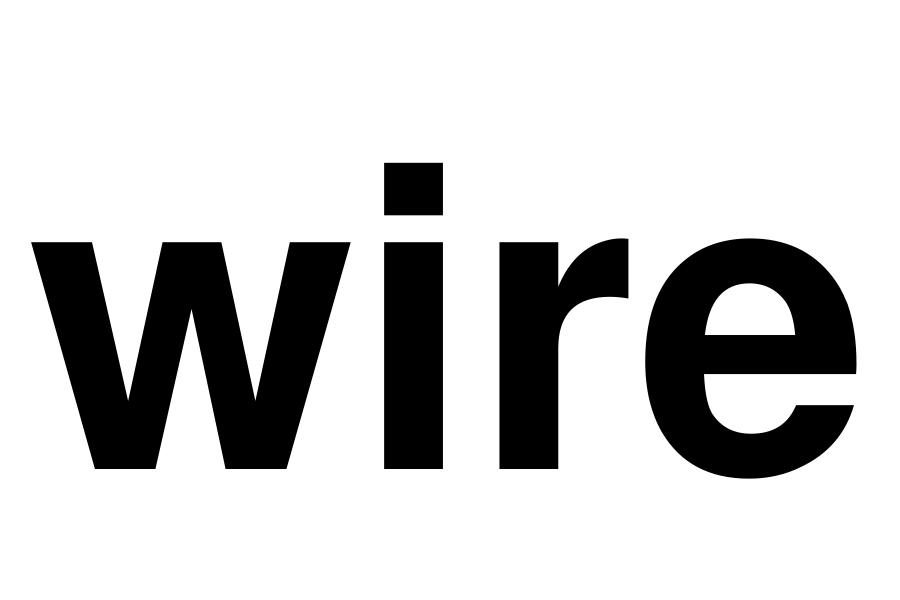
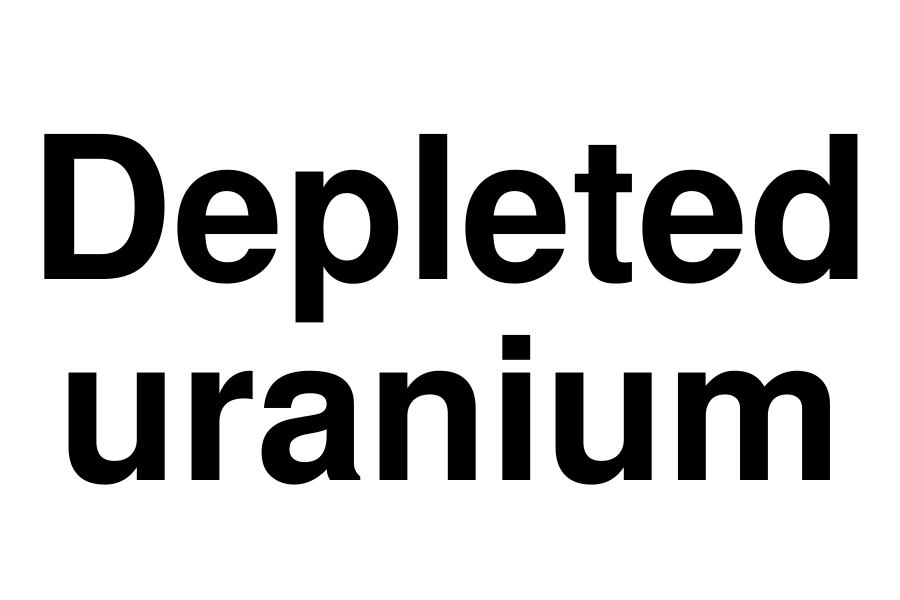
including printing using lpr

Changed region(s): [[0.0311, 0.21, 0.9644, 0.81], [0.56, 0.78, 0.5911, 0.81]]

diff --git a/label.py b/label.py
@@ -1,6 +1,7 @@
 #!/usr/bin/env python3
 
 from PIL import Image, ImageDraw, ImageFont
+import sys, os
 
 dpi = 300
 margin = 0.1  # inches
@@ -8,8 +9,8 @@ margin = 0.1  # inches
 margin = margin * dpi  # margin in dpi
 width = 3*dpi
 height = 2*dpi
-maxwidth = width - 2*margin
-maxheight = height - 2*margin
+maxwidth = width - 2 * margin
+maxheight = height - 2 * margin
 bestfontsize = 1
 bestwidth = 1
 bestheight = 1
@@ -18,7 +19,10 @@ bestmessage = ""
 img = Image.new('RGB', (width, height), color='white')
 imgDraw = ImageDraw.Draw(img)
 
-message = "wire"
+if len(sys.argv) > 1:
+    message = sys.argv[1]
+else:
+    message = "Depleted uranium"  # a test message
 
 words = message.split()
 for seppattern in range(2**(len(words)-1)):
@@ -49,3 +53,5 @@ print("Making label with", repr(bestmessage))
 imgDraw.text((width/2, height/2), bestmessage, font=ImageFont.truetype("FreeSansBold.ttf",
               size=bestfontsize), fill=(0,0,0), align="center", anchor="mm", spacing=-30)
 img.save('label.png')
+if len(sys.argv) > 1:  # don't print the test message
+    os.system("lpr -P iDPRT_SP410 -o media=Custom.3x2in label.png")
